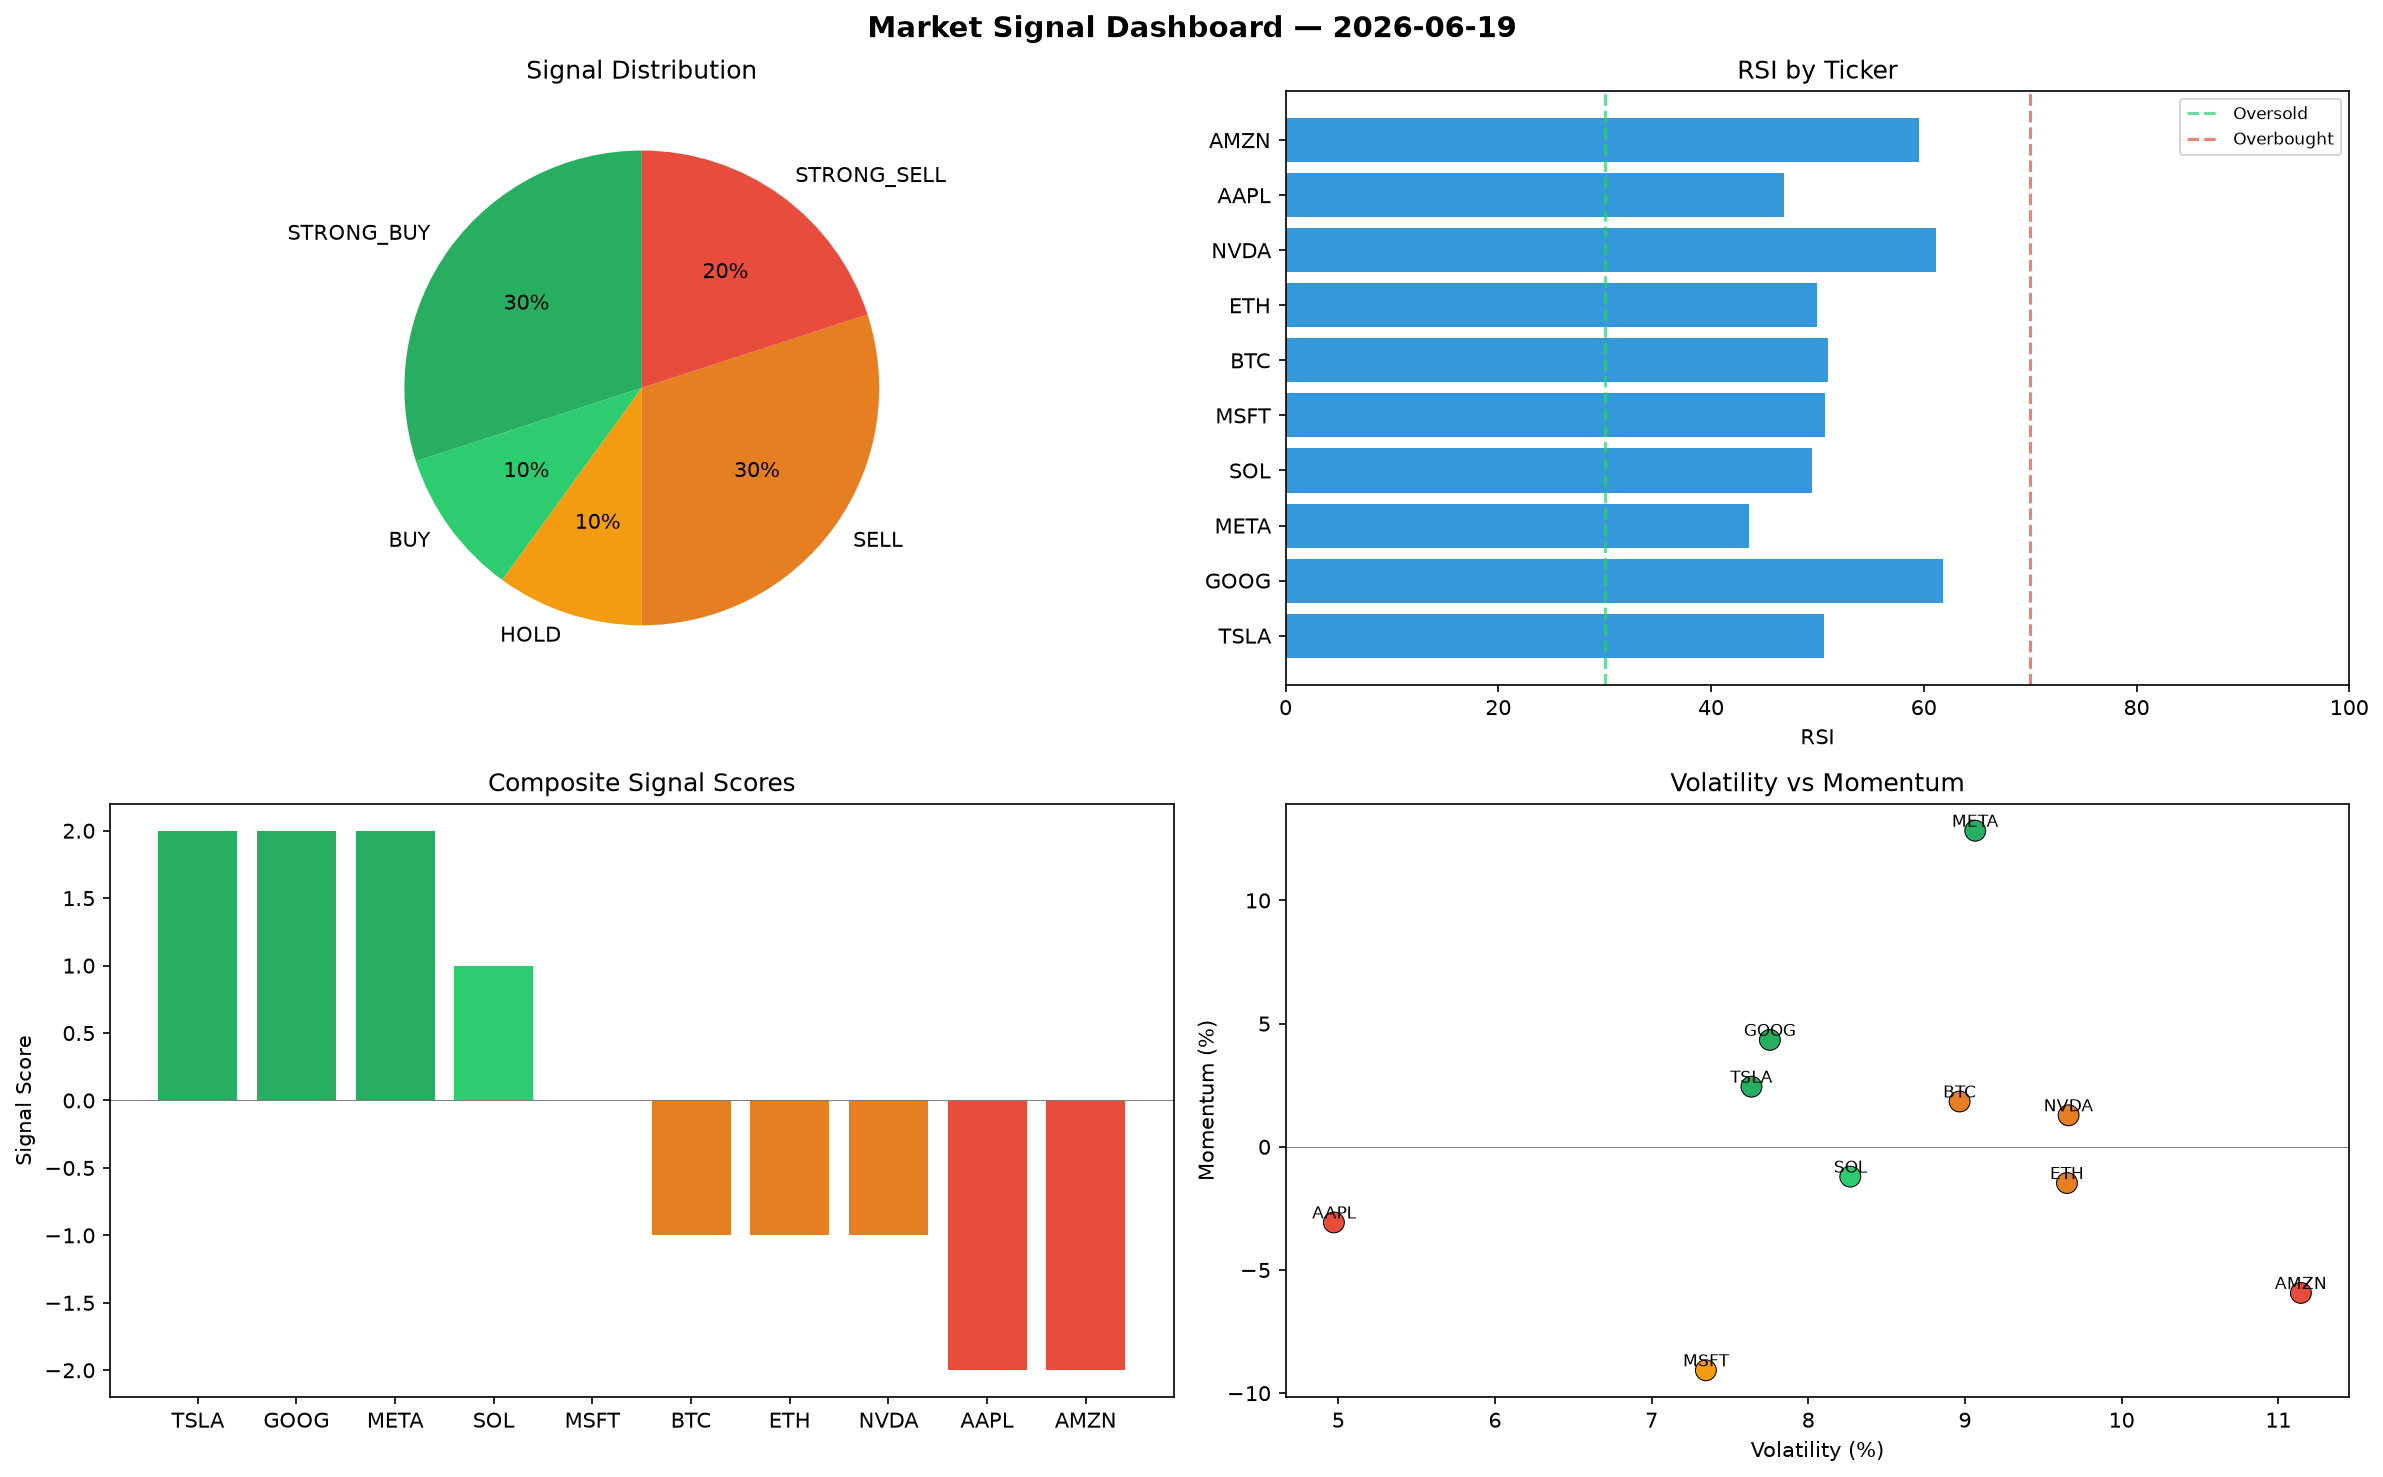
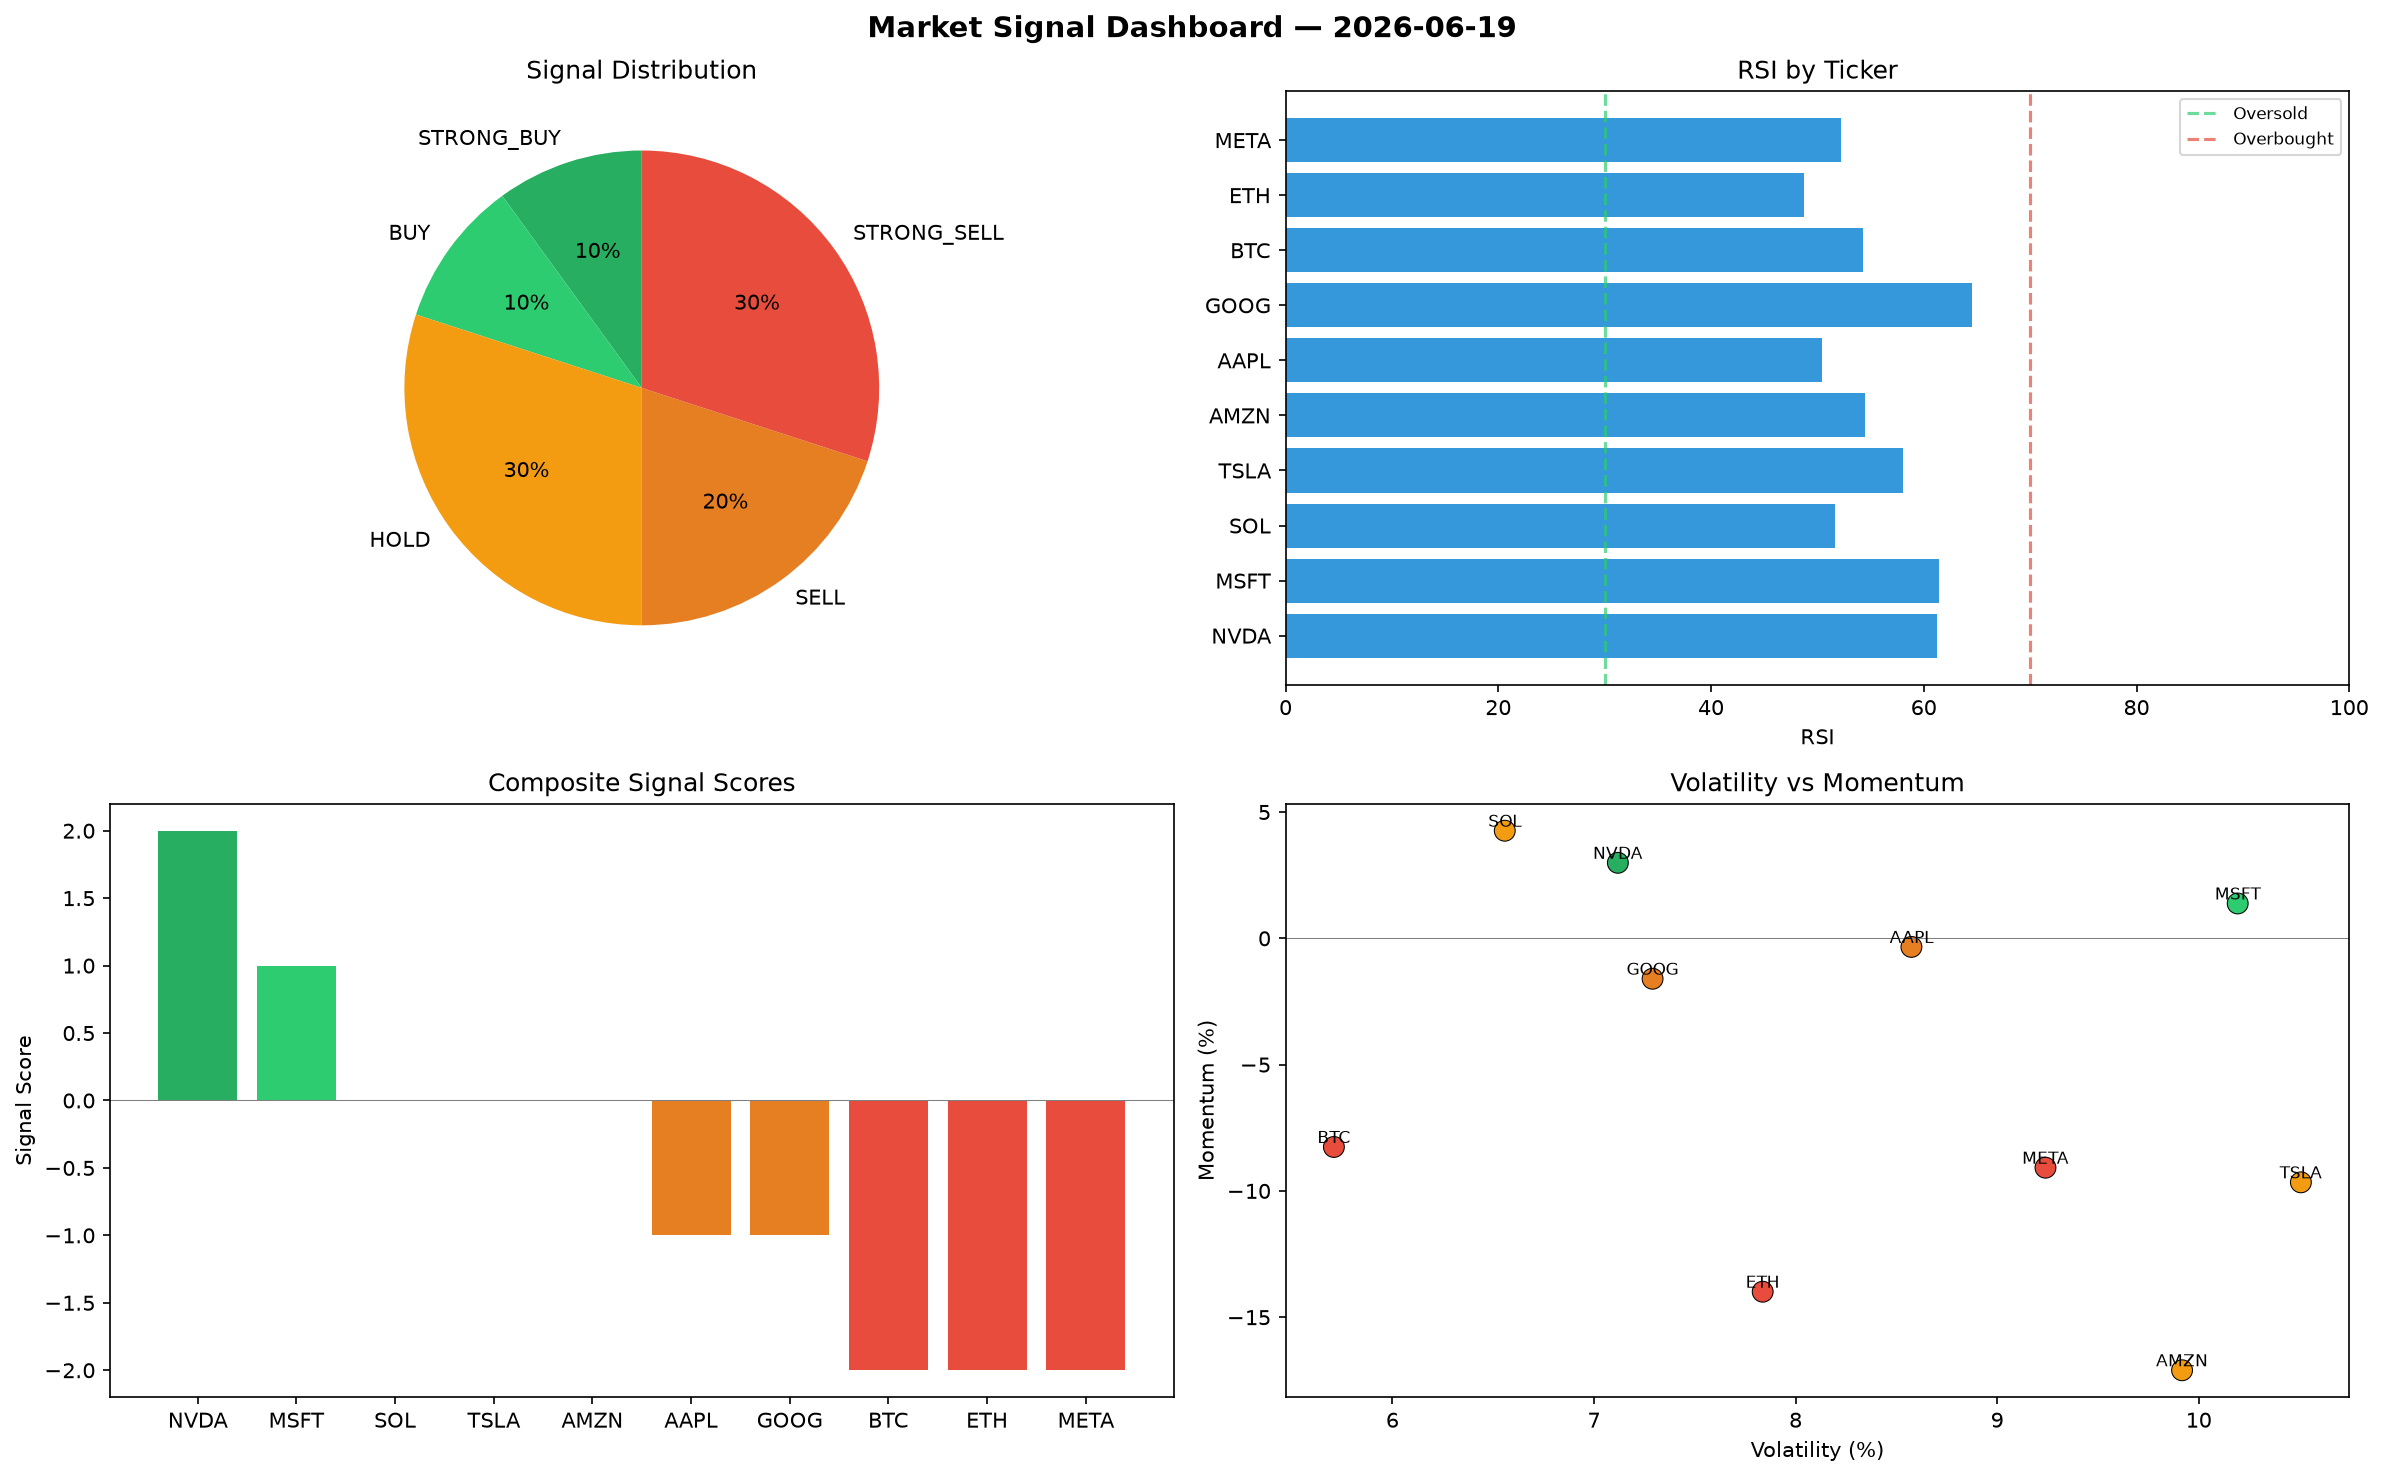
automated-bots: market signals 2026-06-19T12:29

diff --git a/logs/2026-06-19.md b/logs/2026-06-19.md
@@ -1,6 +1,6 @@
 # Market Signal Report — 2026-06-19
 
-**Run ID:** `977cfdbc05` | **Buy:** 4 | **Sell:** 5 | **Hold:** 1
+**Run ID:** `cf39d96f31` | **Buy:** 2 | **Sell:** 5 | **Hold:** 3
 
 ![Dashboard](2026-06-19_dashboard.png)
 
@@ -8,28 +8,28 @@
 
 | Ticker | Price | Signal | Score | RSI | Momentum | Confidence |
 |--------|-------|--------|-------|-----|----------|------------|
-| TSLA | $4777.47 | **STRONG_BUY** | 2 | 50.65 | 0.0244 | 0.5 |
-| GOOG | $2295.41 | **STRONG_BUY** | 2 | 61.8 | 0.0434 | 0.5 |
-| META | $4495.59 | **STRONG_BUY** | 2 | 43.59 | 0.1283 | 0.5 |
-| SOL | $3302.06 | **BUY** | 1 | 49.51 | -0.0121 | 0.25 |
-| MSFT | $2241.83 | **HOLD** | 0 | 50.74 | -0.0907 | 0.0 |
-| BTC | $2751.67 | **SELL** | -1 | 50.97 | 0.0184 | 0.25 |
-| ETH | $2379.39 | **SELL** | -1 | 49.98 | -0.0147 | 0.25 |
-| NVDA | $1847.78 | **SELL** | -1 | 61.12 | 0.0128 | 0.25 |
-| AAPL | $2418.36 | **STRONG_SELL** | -2 | 46.88 | -0.0307 | 0.5 |
-| AMZN | $1370.69 | **STRONG_SELL** | -2 | 59.51 | -0.0593 | 0.5 |
+| NVDA | $2872.15 | **STRONG_BUY** | 2 | 61.21 | 0.0299 | 0.5 |
+| MSFT | $958.2 | **BUY** | 1 | 61.41 | 0.0138 | 0.25 |
+| SOL | $4988.68 | **HOLD** | 0 | 51.62 | 0.0426 | 0.0 |
+| TSLA | $548.05 | **HOLD** | 0 | 58.05 | -0.0966 | 0.0 |
+| AMZN | $2324.73 | **HOLD** | 0 | 54.48 | -0.171 | 0.0 |
+| AAPL | $2349.93 | **SELL** | -1 | 50.39 | -0.0034 | 0.25 |
+| GOOG | $3204.76 | **SELL** | -1 | 64.54 | -0.016 | 0.25 |
+| BTC | $1476.25 | **STRONG_SELL** | -2 | 54.28 | -0.0826 | 0.5 |
+| ETH | $3589.49 | **STRONG_SELL** | -2 | 48.76 | -0.1399 | 0.5 |
+| META | $1266.98 | **STRONG_SELL** | -2 | 52.2 | -0.0908 | 0.5 |
 
 ## Delta vs Yesterday
 
 | Ticker | Today | Yesterday | Price Change | Signal Changed |
 |--------|-------|-----------|-------------|----------------|
-| TSLA | STRONG_BUY | STRONG_SELL | 📈 111.31% | ⚠ YES |
-| GOOG | STRONG_BUY | BUY | 📉 -44.51% | ⚠ YES |
-| META | STRONG_BUY | SELL | 📈 298.58% | ⚠ YES |
-| SOL | BUY | HOLD | 📈 1849.38% | ⚠ YES |
-| MSFT | HOLD | STRONG_BUY | 📈 159.67% | ⚠ YES |
-| BTC | SELL | STRONG_SELL | 📈 1515.02% | ⚠ YES |
-| ETH | SELL | HOLD | 📈 119.41% | ⚠ YES |
-| NVDA | SELL | STRONG_SELL | 📉 -49.29% | ⚠ YES |
-| AAPL | STRONG_SELL | BUY | 📉 -45.29% | ⚠ YES |
-| AMZN | STRONG_SELL | HOLD | 📉 -18.98% | ⚠ YES |
+| NVDA | STRONG_BUY | STRONG_SELL | 📉 -21.17% | ⚠ YES |
+| MSFT | BUY | STRONG_BUY | 📈 10.99% | ⚠ YES |
+| SOL | HOLD | HOLD | 📈 2845.09% | — |
+| TSLA | HOLD | STRONG_SELL | 📉 -75.76% | ⚠ YES |
+| AMZN | HOLD | HOLD | 📈 37.42% | — |
+| AAPL | SELL | BUY | 📉 -46.84% | ⚠ YES |
+| GOOG | SELL | BUY | 📉 -22.53% | ⚠ YES |
+| BTC | STRONG_SELL | STRONG_SELL | 📈 766.45% | — |
+| ETH | STRONG_SELL | HOLD | 📈 230.99% | ⚠ YES |
+| META | STRONG_SELL | SELL | 📈 12.33% | ⚠ YES |
